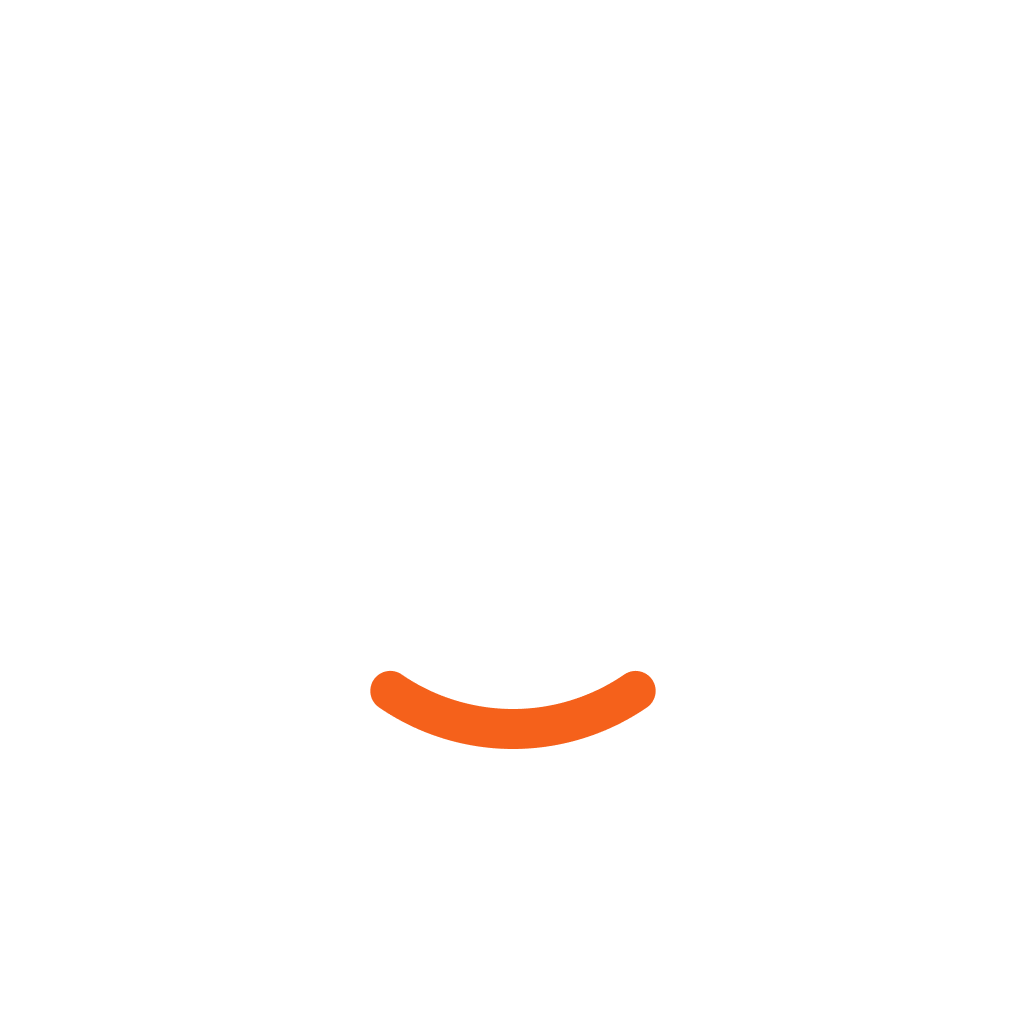
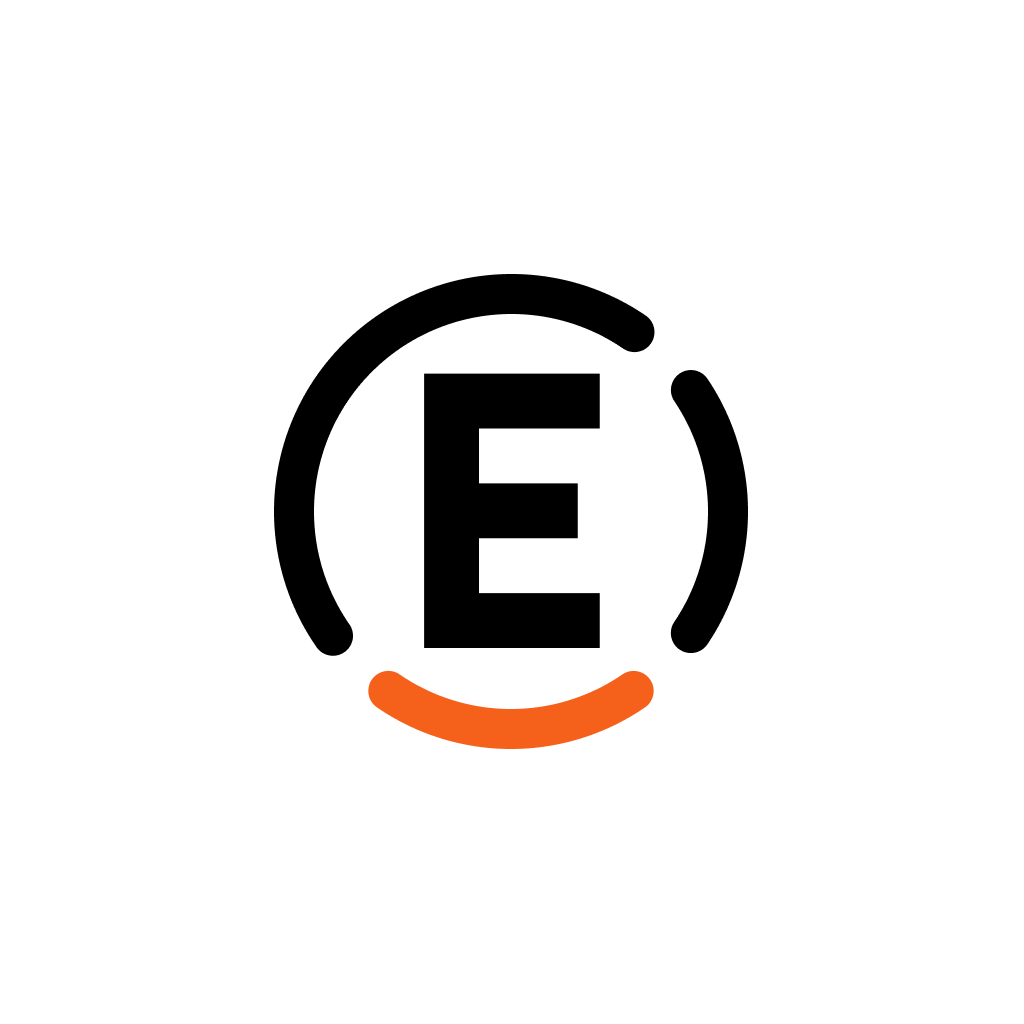
Update about screen

Changed region(s): [[0.25, 0.25, 0.6562, 0.6562], [0.6562, 0.3438, 0.75, 0.6562]]

diff --git a/screens/About.tsx b/screens/About.tsx
@@ -2,13 +2,12 @@ import * as Application from 'expo-application';
 import { Image, Linking, StyleSheet, TouchableOpacity, View, ScrollView } from 'react-native';
 
 import Card from '../components/Card';
-import LabelAndValue from '../components/LabelAndValue';
 import MyText from '../components/MyText';
 import { colors } from '../constants/colors';
 
 const PokeAPIURL = 'https://pokeapi.co/';
-const EXPENNY_STORE_URL = 'https://play.google.com/store/apps/details?id=com.minso.expenny';
-const POKE_INFO_STORE_URL = 'https://play.google.com/store/apps/details?id=com.minsoeaung.pokeinfo';
+const EXPENNY_STORE_URL = 'market://details?id=com.minso.expenny';
+const POKE_INFO_STORE_URL_RATING = 'market://details?id=com.minsoeaung.pokeinfo&showAllReviews=true';
 const EXPENNY_LANDING_URL = 'https://getexpenny.com';
 
 const About = () => {
@@ -24,19 +23,36 @@ const About = () => {
                     Copyright The Pokémon Company.
                 </MyText>
             </Card>
-
-            <View style={{ gap: 5, marginLeft: 10 }}>
-                <LabelAndValue
-                    label="Version"
-                    value={<MyText style={styles.valueText}>{Application.nativeApplicationVersion}</MyText>}
-                />
-                <LabelAndValue
-                    label="Build"
-                    value={<MyText style={styles.valueText}>{Application.nativeBuildVersion}</MyText>}
-                />
+            <View />
+            <View style={styles.appRow}>
+                <View
+                    style={{
+                        width: 48,
+                        height: 48,
+                        elevation: 2,
+                        borderRadius: 22222,
+                        overflow: 'hidden',
+                        marginTop: 4,
+                    }}
+                >
+                    <Image source={require('../assets/icon.png')} style={{ width: '100%', height: '100%' }} />
+                </View>
+                <View style={styles.appInfo}>
+                    <MyText style={styles.appName}>
+                        Poke Info - v{Application.nativeApplicationVersion}({Application.nativeBuildVersion})
+                    </MyText>
+                    <MyText style={styles.appTagline}>Find any Pokémon's info - fast, simple, accurate!</MyText>
+                    <View style={styles.buttons}>
+                        <TouchableOpacity
+                            style={styles.button}
+                            activeOpacity={0.75}
+                            onPress={() => Linking.openURL(POKE_INFO_STORE_URL_RATING)}
+                        >
+                            <MyText style={styles.buttonText}>Rate</MyText>
+                        </TouchableOpacity>
+                    </View>
+                </View>
             </View>
-
-            <MyText style={styles.sectionTitle}>Other apps</MyText>
             <View style={styles.appRow}>
                 <View style={styles.appIconContainer}>
                     <Image source={require('../assets/expenny.png')} style={styles.appIcon} />
@@ -78,21 +94,11 @@ const styles = StyleSheet.create({
     container: {
         padding: 10,
         gap: 15,
-        paddingBottom: 30,
+        paddingBottom: 70,
     },
     description: {
         paddingVertical: 10,
         color: colors.cardText,
-    },
-    sectionTitle: {
-        marginTop: 10,
-        fontSize: 13,
-        color: colors.text,
-        textTransform: 'uppercase',
-        textAlign: 'center',
-        textDecorationLine: 'underline',
-        letterSpacing: 0.8,
-        opacity: 0.6,
     },
     appRow: {
         flexDirection: 'row',
@@ -103,15 +109,17 @@ const styles = StyleSheet.create({
     appIconContainer: {
         width: 48,
         height: 48,
-        borderRadius: 12,
+        borderRadius: 22222,
         overflow: 'hidden',
         alignItems: 'center',
         justifyContent: 'center',
-        marginTop: 2,
+        marginTop: 4,
+        backgroundColor: 'white',
+        elevation: 2,
     },
     appIcon: {
-        width: 80,
-        height: 80,
+        width: 70,
+        height: 70,
     },
     appInfo: {
         flex: 1,
@@ -149,16 +157,6 @@ const styles = StyleSheet.create({
     },
     buttonPrimaryText: {
         color: colors.background,
-    },
-    footer: {
-        marginBottom: 10,
-    },
-    valueText: {
-        color: colors.cardText,
-        fontSize: 14,
-    },
-    text: {
-        color: colors.text,
     },
 });
 

diff --git a/screens/BottomTabsNavigator.tsx b/screens/BottomTabsNavigator.tsx
@@ -1,5 +1,5 @@
-import { AntDesign, FontAwesome6, Ionicons, MaterialCommunityIcons, MaterialIcons, Octicons } from '@expo/vector-icons';
-import { createBottomTabNavigator, useBottomTabBarHeight } from '@react-navigation/bottom-tabs';
+import { AntDesign, MaterialCommunityIcons, MaterialIcons } from '@expo/vector-icons';
+import { createBottomTabNavigator } from '@react-navigation/bottom-tabs';
 import { BlurView } from 'expo-blur';
 import React from 'react';
 import { StyleSheet, View } from 'react-native';
@@ -25,11 +25,11 @@ export const BottomTabsNavigator: React.FC = () => {
                             if (route.name === 'PokeDexStack') {
                                 return <MaterialIcons size={size} color={color} name="catching-pokemon" />;
                             } else if (route.name === 'MovesStack') {
-                                return <MaterialCommunityIcons size={size} color={color} name="lightning-bolt" />;
+                                return <MaterialCommunityIcons size={size} color={color} name="sword-cross" />;
                             } else if (route.name === 'AbilitiesStack') {
-                                return <FontAwesome6 size={size} color={color} name="dumbbell" />;
+                                return <MaterialCommunityIcons size={size} color={color} name="star-four-points" />;
                             } else if (route.name === 'ItemsStack') {
-                                return <Octicons size={size} color={color} name="tools" />;
+                                return <MaterialCommunityIcons size={size} color={color} name="bag-personal" />;
                             } else if (route.name === 'AboutStack') {
                                 return <AntDesign size={size} color={color} name="info-circle" />;
                             }

diff --git a/App.tsx b/App.tsx
@@ -12,7 +12,7 @@ import { SafeAreaProvider } from 'react-native-safe-area-context';
 SplashScreen.preventAutoHideAsync();
 
 SplashScreen.setOptions({
-    duration: 5000,
+    duration: 500,
     fade: true,
 });
 